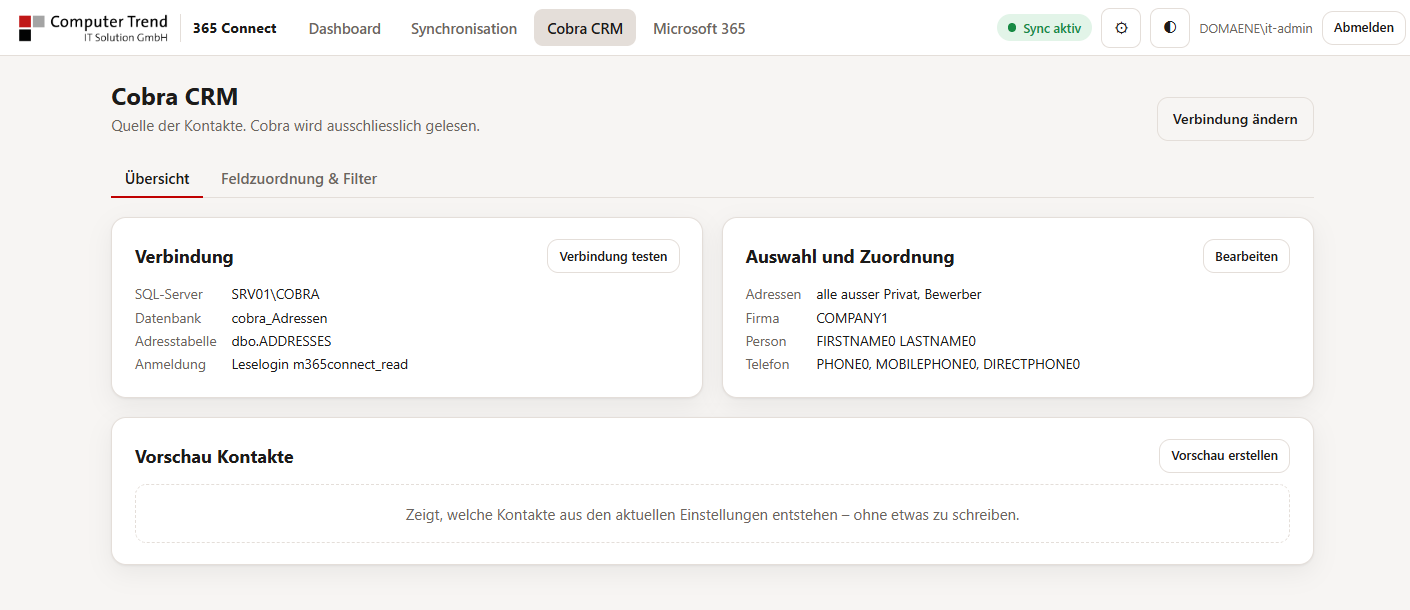
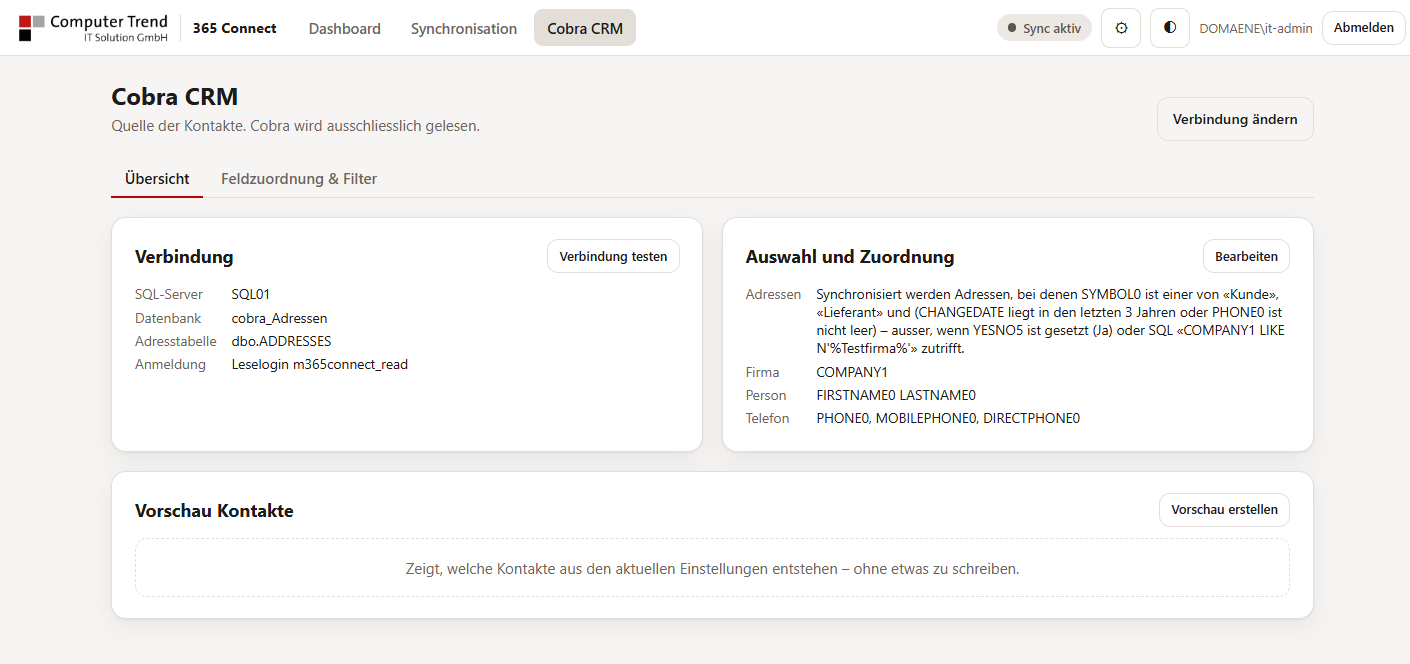
Dokumentation 0.6.0: Adressfilter als Regeleditor, Fortschrittsanzeige, Screenshots Cobra CRM

diff --git a/CHANGELOG.md b/CHANGELOG.md
@@ -2,6 +2,14 @@
 
 Ab 0.3.4 sind Versionen regulär; Beta sind nur noch Versionen mit Zusatz (z. B. `1.2.0-beta.1`). Frühere 0.x-Versionen waren Beta. Pakete und Prüfdateien: [Releases](https://github.com/c-trend/M365Connect-Public/releases).
 
+## 0.6.0 – 25.11.2026
+
+- **Adressfilter als Regeleditor** (Cobra CRM → Feldzuordnung & Filter): zwei Blöcke **Einschliessen** und **Ausschliessen** (Ausschliessen gewinnt immer), verschachtelbare Gruppen mit UND/ODER, Bedingungen für Text/Auswahl, Zahl, Datum (fest oder relativ, bei jedem Lauf neu berechnet) und Ja/Nein sowie eigene SQL-Bedingungen. Der Filter steht als lesbarer Satz über dem Editor und in der Cobra-Übersicht.
+- **Treffer zählen:** Anzahl Adressen je Regel und Gruppe, ein- und ausgeschlossen sowie insgesamt – mit einer einzigen Abfrage.
+- **Update ohne Filterverlust:** Der bisherige Filter (Adresstyp, Ausschluss-Kennzeichen, zusätzlicher SQL-Filter) gilt unverändert weiter und wird im Editor als gleichwertige Regeln übernommen. Die alten Einstellungen bleiben für einen Rückroll erhalten. Unvollständige alte Einstellungen werden als ungültige Regel gezeigt, statt still alle Adressen zu synchronisieren; ein nicht lesbarer Filter stoppt den Sync, die Filterseite bleibt zur Reparatur erreichbar.
+- **Fortschrittsanzeige:** Dashboard und Synchronisation zeigen laufende Syncs mit Phase, Prozent, «Postfach x von y», angelegten/gelöschten Kontakten und Fehlern. Läufe über die Kommandozeile erscheinen als «Ein Lauf ist aktiv».
+- Dokumentation: Adressfilter und Fortschrittsanzeige beschrieben, Screenshots Cobra CRM neu.
+
 ## 0.5.1 – 22.11.2026
 
 - **Oberfläche:** Kachelraster fest zweispaltig mit gleich hohen Kacheln – auf breiten Bildschirmen keine leere dritte Spalte mehr (Dashboard, Cobra CRM, Microsoft 365, Einstellungen). Unter 900 px eine Spalte.

diff --git a/docs/installation.md b/docs/installation.md
@@ -114,8 +114,22 @@ Danach **Weiter zu Feldzuordnung & Filter** bzw. **Cobra CRM → Feldzuordnung &
 
 1. **Feldzuordnung**: Firma, Vorname, Nachname, Telefonnummern und optional die Adresse. Mit
    **Beispielzeilen anzeigen** prüfen.
-2. **Adressfilter**: z. B. nur Kunden, oder Privatadressen, Bewerber und Mitarbeitende ausschliessen. Die Anzahl
-   Adressen wird laufend angezeigt.
+2. **Adressfilter** (ab 0.6.0 als Regeleditor) in zwei Blöcken:
+   - **Einschliessen** – nur Adressen, auf die diese Regeln zutreffen (leer = alle Adressen), z. B. Adresstyp
+     «Kunde» oder «Lieferant».
+   - **Ausschliessen** – trifft eine dieser Regeln zu, wird die Adresse nie synchronisiert, z. B. «inaktiv ist
+     gesetzt». Ausschliessen gewinnt immer.
+
+   Regeln lassen sich in Gruppen mit **alle Bedingungen (UND)** oder **mindestens eine (ODER)** zusammenfassen und
+   verschachteln. Bedingungen gibt es für Text und Auswahllisten (mit Werteliste und Anzahl), Zahlen, Datum (fest oder
+   relativ, z. B. «in den letzten 3 Jahren») und Ja/Nein-Felder; für Spezialfälle eine **eigene SQL-Bedingung (ohne
+   WHERE)**. Verneinte Vergleiche («ist nicht», «enthält nicht») treffen auch auf leere Felder zu. Über dem Editor
+   steht der Filter als lesbarer Satz. **Treffer zählen** zeigt die Anzahl je Regel und Gruppe sowie, wie viele
+   Adressen insgesamt synchronisiert werden.
+
+   Beim Update von einer früheren Version wird der bisherige Filter (Adresstyp, Ausschluss-Kennzeichen, zusätzlicher
+   SQL-Filter) unverändert übernommen und im Editor als Regeln angezeigt. Fallen durch neue Regeln viele Kontakte weg,
+   verlangt der Löschschutz beim nächsten Lauf eine Freigabe.
 3. **Vorschau**: Stichproben der entstehenden Kontakte prüfen → **Fertig**.
 
 ![Cobra CRM – Feldzuordnung & Filter](images/12-cobra-zuordnung.png)

diff --git a/README.md b/README.md
@@ -52,7 +52,7 @@ Nummer. Das Programm läuft als Windows-Dienst beim Kunden und wird über eine W
     <td><a href="docs/images/07-einstellungen.png"><img src="docs/images/07-einstellungen.png" alt="Einstellungen"></a><br><sub><b>Einstellungen (⚙)</b> – Verbindungen zu Microsoft 365 und Cobra CRM</sub></td>
   </tr>
   <tr>
-    <td><a href="docs/images/05-cobra.png"><img src="docs/images/05-cobra.png" alt="Cobra CRM"></a><br><sub><b>Cobra CRM</b> – Verbindung, Adressauswahl, Feldzuordnung und Vorschau</sub></td>
+    <td><a href="docs/images/05-cobra.png"><img src="docs/images/05-cobra.png" alt="Cobra CRM"></a><br><sub><b>Cobra CRM</b> – Verbindung, Adressfilter mit Regeln, Feldzuordnung und Vorschau</sub></td>
     <td><a href="docs/images/06-microsoft365.png"><img src="docs/images/06-microsoft365.png" alt="Microsoft 365"></a><br><sub><b>Microsoft 365</b> – App-Registrierung mit Zertifikat</sub></td>
   </tr>
   <tr>

diff --git a/docs/betrieb.md b/docs/betrieb.md
@@ -20,6 +20,11 @@ Das **Dashboard** zeigt auf einen Blick, ob der Sync läuft, wann der nächste L
 Kontakte verwaltet werden und wie die letzten Läufe ausgegangen sind. Oben rechts steht der Gesamtzustand
 («Sync aktiv», «Freigabe nötig», «Letzter Sync fehlgeschlagen» …).
 
+Während ein Lauf im Dienst arbeitet, zeigen Dashboard und **Synchronisation → Übersicht** den **Fortschritt**: Phase,
+Prozent, «Postfach x von y» mit dem aktuellen Postfach, Anzahl Cobra-Adressen und Kontakte, angelegte und gelöschte
+Kontakte sowie Postfächer mit Fehlern. Nach dem Lauf werden Status und «Letzte Läufe» neu geladen. Läufe über die
+Kommandozeile erscheinen nur als «Ein Lauf ist aktiv».
+
 Unter **Synchronisation → Übersicht** stehen alle Läufe mit Meldung. **Synchronisation → Postfächer** zeigt den Stand
 je Postfach.
 
